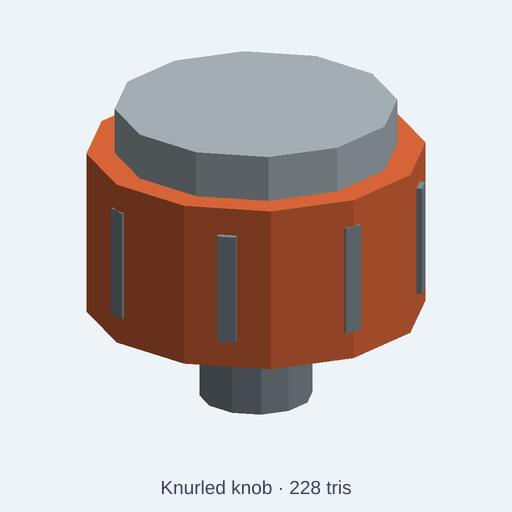
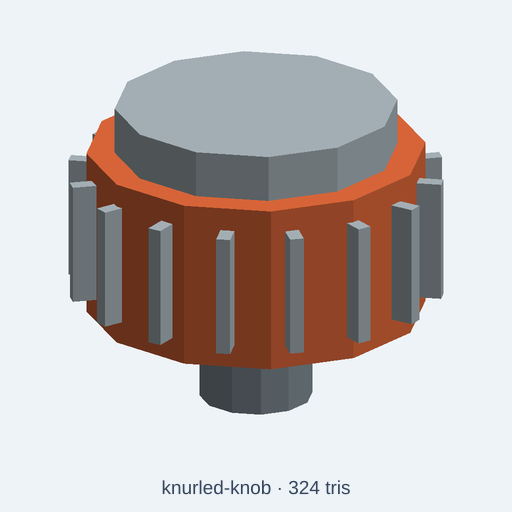
fix(catalog): add real grip flutes, tapered reducer and T-slot mounting holes

diff --git a/catalog/kits/standard-components/pipe-reducer.kcad.ts b/catalog/kits/standard-components/pipe-reducer.kcad.ts
@@ -1,15 +1,15 @@
-// Distinctive geometry: Stepped hollow reducer joining a larger pipe end to a smaller pipe end
+// Distinctive geometry: Tapered hollow pipe fitting connecting larger and smaller nominal bores
 meta({
   name: 'pipe-reducer',
   license: 'CC0-1.0',
   title: 'Pipe reducer',
-  description: 'Stepped hollow reducer joining a larger pipe end to a smaller pipe end Knobs: model size, steel, bronze.',
+  description: 'Tapered hollow pipe fitting connecting larger and smaller nominal bores Knobs: model size, steel, bronze.',
   tags: ['pipe reducer', 'reducer fitting', 'pipe adapter', 'plumbing'],
   kit: 'standard-components',
   category: 'attachment',
   origin: 'base',
   compat: ['mechanical', 'industrial', 'workshop', 'assembly'],
-  triangleBudget: 340,
+  triangleBudget: 520,
 });
 
 const size = param('size', 'standard', { choices: ['compact', 'standard', 'large'], label: 'Model size' });
@@ -24,6 +24,10 @@ presets({
 const s = size.value === 'compact' ? 0.75 : size.value === 'large' ? 1.25 : 1;
 const a = assembly('pipe-reducer');
 a.part('large-end',cylinder(10*s,22*s,14).subtract(cylinder(12*s,16*s,12).translate(0,0,-s)).color(steel));
-a.part('transition',cylinder(24*s,16*s,12).subtract(cylinder(26*s,11*s,12).translate(0,0,-s)).translate(0,0,10*s).color(bronze));
+// Revolve a genuine annular reducer profile, with a smooth continuous outer
+// taper and opening. A stack of different diameter cylinders is not a reducer.
+const transition = path().moveTo(16*s,10*s).lineTo(22*s,10*s)
+  .lineTo(13*s,34*s).lineTo(10*s,34*s).close().revolve();
+a.part('continuous-taper',transition.color(bronze));
 a.part('small-end',cylinder(12*s,13*s,12).subtract(cylinder(14*s,10*s,12).translate(0,0,-s)).translate(0,0,34*s).color(steel));
 return a.model();

diff --git a/catalog/kits/standard-components/knurled-knob.kcad.ts b/catalog/kits/standard-components/knurled-knob.kcad.ts
@@ -3,13 +3,13 @@ meta({
   name: 'knurled-knob',
   license: 'CC0-1.0',
   title: 'Knurled knob',
-  description: 'Compact control knob with a broad grip body, raised crown and center stem Knobs: model size, steel, aluminum, engineering polymer.',
+  description: 'Compact control knob with a broad grip body, raised crown, center stem and visible radial grip flutes. Knobs: model size, steel, aluminum, engineering polymer.',
   tags: ['knob', 'control knob', 'machine control', 'handwheel'],
   kit: 'standard-components',
   category: 'attachment',
   origin: 'base',
   compat: ['mechanical', 'industrial', 'workshop', 'assembly'],
-  triangleBudget: 300,
+  triangleBudget: 480,
 });
 
 const size = param('size', 'standard', { choices: ['compact', 'standard', 'large'], label: 'Model size' });
@@ -27,5 +27,8 @@ const a = assembly('knurled-knob');
 a.part('stem',cylinder(10*s,6*s,10).translate(0,0,0).color(steel));
 a.part('grip',cylinder(18*s,18*s,12).translate(0,0,10*s).color(polymer));
 a.part('crown',cylinder(5*s,15*s,12).translate(0,0,28*s).color(aluminum));
-for (const angle of [0,45,90,135,180,225,270,315]) a.part(`grip-rib-${angle}`,box(2*s,4*s,12*s,true).translate(0,16*s,19*s).rotateZ(angle).color(steel));
+for (let i=0;i<16;i++) {
+  const angle=i*22.5;
+  a.part(`raised-grip-flute-${i}`,box(1.5*s,3*s,13*s,true).translate(0,18.5*s,19*s).rotateZ(angle).color(aluminum));
+}
 return a.model();

diff --git a/catalog/kits/standard-components/t-slot-angle-bracket.kcad.ts b/catalog/kits/standard-components/t-slot-angle-bracket.kcad.ts
@@ -9,7 +9,7 @@ meta({
   category: 'attachment',
   origin: 'base',
   compat: ['mechanical', 'industrial', 'workshop', 'assembly'],
-  triangleBudget: 380,
+  triangleBudget: 600,
 });
 
 const size = param('size', 'standard', { choices: ['compact', 'standard', 'large'], label: 'Model size' });
@@ -24,8 +24,14 @@ presets({
 const s = size.value === 'compact' ? 0.75 : size.value === 'large' ? 1.25 : 1;
 const block = (x: number, y: number, z: number, w: number, d: number, h: number) => box(w, d, h).translate(x, y, z);
 const a = assembly('t-slot-angle-bracket');
-a.part('base',block(-24*s,-20*s,0,48*s,40*s,5*s).color(aluminum));
-a.part('upright',block(-24*s,15*s,5*s,48*s,5*s,34*s).color(aluminum));
+let base=block(-24*s,-20*s,0,48*s,40*s,5*s);
+let upright=block(-24*s,15*s,5*s,48*s,5*s,34*s);
+for (const x of [-13,13]) {
+  base=base.subtract(cylinder(7*s,3*s,12).translate(x*s,-6*s,-s));
+  upright=upright.subtract(cylinder(7*s,3*s,12).rotateX(90).translate(x*s,21*s,24*s));
+}
+a.part('horizontal-mount',base.color(aluminum));
+a.part('vertical-mount',upright.color(aluminum));
 a.part('web-a',extrudePolygon([[-20*s,0],[0,0],[0,24*s]],4*s).rotateX(90).translate(-18*s,15*s,5*s).color(steel));
 a.part('web-b',extrudePolygon([[0,0],[20*s,0],[0,24*s]],4*s).rotateX(90).translate(14*s,15*s,5*s).color(steel));
 return a.model();

diff --git a/docs/quality/manufacturing-assets-2026-11-09.md b/docs/quality/manufacturing-assets-2026-11-09.md
@@ -5,7 +5,7 @@
 - Live source: `https://kernelcad.com/assets.json` collected on 2026-11-09. Exactly **2,418** entries, including **66** manufacturing-category assets: **50** CC0 low-poly standard-component scene props and **16** MIT parametric manufacturing examples. These are not interchangeable product classes.
 - **All 66** linked PNG previews and source files downloaded and visually reviewed from the live catalogue. All **50/50** standard-component sources passed the native catalog LOAD, parameter/knob and GLB mesh checks on work-1 (original baseline). All **16/16** manufacturing examples evaluated successfully in the production KernelCAD runtime without build diagnostics at default parameter values.
 - Source build success is **not** evidence of realistic geometry, manufacturer conformity, accuracy, clearance, fit, load rating, or mechanical function. A pass below means visually suitable for its labeled use *only*, not physically verified.
-- Three MIT manufacturing parts were repaired in [server PR #623](https://github.com/w1ne/kernelCAD-server/pull/623), merged 2026-11-09. Five CC0 component props have targeted rebuilds in the catalog quality branch; their release requires the normal PR/CI/deployment path.
+- Three MIT manufacturing parts were repaired in [server PR #623](https://github.com/w1ne/kernelCAD-server/pull/623), merged 2026-11-09. Eight CC0 component props have targeted rebuilds in the catalog quality branch; their release requires the normal PR/CI/deployment path.
 - Outstanding representational defects must not be silently cleared by a color/preset checker. Continue remediation in the [manufacturing asset issue](https://github.com/w1ne/kernelCAD-server/issues/622).
 
 ## Complete per-asset ledger
@@ -33,7 +33,7 @@
 | 19 | [standard-components/handwheel](https://kernelcad.com/assets/standard-components-handwheel.png) | CC0 low-poly prop | SCENE PASS | Acceptable silhouette at the intended detail level; dimensions/physical function not verified. |
 | 20 | [standard-components/hose-barb-adapter](https://kernelcad.com/assets/standard-components-hose-barb-adapter.png) | CC0 low-poly prop | SCENE PASS | Acceptable silhouette at the intended detail level; dimensions/physical function not verified. |
 | 21 | [standard-components/jaw-coupling](https://kernelcad.com/assets/standard-components-jaw-coupling.png) | CC0 low-poly prop | IMPROVED / proposed | New recognisable geometry plus renderer-verified PNG; requires PR, CI, production check. |
-| 22 | [standard-components/knurled-knob](https://kernelcad.com/assets/standard-components-knurled-knob.png) | CC0 low-poly prop | P1 / open | No visible knurling; model looks like a plain cylindrical knob. |
+| 22 | [standard-components/knurled-knob](https://kernelcad.com/assets/standard-components-knurled-knob.png) | CC0 low-poly prop | IMPROVED / proposed | New recognisable geometry plus renderer-verified PNG; requires PR, CI, production check. |
 | 23 | [standard-components/leveling-foot](https://kernelcad.com/assets/standard-components-leveling-foot.png) | CC0 low-poly prop | SCENE PASS | Acceptable silhouette at the intended detail level; dimensions/physical function not verified. |
 | 24 | [standard-components/linear-guide-carriage](https://kernelcad.com/assets/standard-components-linear-guide-carriage.png) | CC0 low-poly prop | P2 / open | Simplified carriage; no ball circuit or wiper functionality validation. |
 | 25 | [standard-components/linear-guide-rail](https://kernelcad.com/assets/standard-components-linear-guide-rail.png) | CC0 low-poly prop | SCENE PASS | Acceptable silhouette at the intended detail level; dimensions/physical function not verified. |
@@ -44,7 +44,7 @@
 | 30 | [standard-components/pipe-elbow-45](https://kernelcad.com/assets/standard-components-pipe-elbow-45.png) | CC0 low-poly prop | P2 / open | Junction continuity and pressure passage not verified; cosmetic elbow. |
 | 31 | [standard-components/pipe-elbow-90](https://kernelcad.com/assets/standard-components-pipe-elbow-90.png) | CC0 low-poly prop | P2 / open | Junction continuity and pressure passage not verified; cosmetic elbow. |
 | 32 | [standard-components/pipe-flange](https://kernelcad.com/assets/standard-components-pipe-flange.png) | CC0 low-poly prop | SCENE PASS | Acceptable silhouette at the intended detail level; dimensions/physical function not verified. |
-| 33 | [standard-components/pipe-reducer](https://kernelcad.com/assets/standard-components-pipe-reducer.png) | CC0 low-poly prop | P1 / open | Stepped coaxial cylinders, not a continuously tapered reducing fitting. |
+| 33 | [standard-components/pipe-reducer](https://kernelcad.com/assets/standard-components-pipe-reducer.png) | CC0 low-poly prop | IMPROVED / proposed | New recognisable geometry plus renderer-verified PNG; requires PR, CI, production check. |
 | 34 | [standard-components/pipe-saddle-clamp](https://kernelcad.com/assets/standard-components-pipe-saddle-clamp.png) | CC0 low-poly prop | SCENE PASS | Acceptable silhouette at the intended detail level; dimensions/physical function not verified. |
 | 35 | [standard-components/pipe-tee](https://kernelcad.com/assets/standard-components-pipe-tee.png) | CC0 low-poly prop | IMPROVED / proposed | New recognisable geometry plus renderer-verified PNG; requires PR, CI, production check. |
 | 36 | [standard-components/pipe-union](https://kernelcad.com/assets/standard-components-pipe-union.png) | CC0 low-poly prop | P2 / open | No functional separation, retaining nuts or threaded sealing interface established. |
@@ -55,7 +55,7 @@
 | 41 | [standard-components/shim-pack](https://kernelcad.com/assets/standard-components-shim-pack.png) | CC0 low-poly prop | SCENE PASS | Acceptable silhouette at the intended detail level; dimensions/physical function not verified. |
 | 42 | [standard-components/split-shaft-collar](https://kernelcad.com/assets/standard-components-split-shaft-collar.png) | CC0 low-poly prop | P2 / open | Split visible but clamping screw not modeled. |
 | 43 | [standard-components/square-mounting-flange](https://kernelcad.com/assets/standard-components-square-mounting-flange.png) | CC0 low-poly prop | SCENE PASS | Acceptable silhouette at the intended detail level; dimensions/physical function not verified. |
-| 44 | [standard-components/t-slot-angle-bracket](https://kernelcad.com/assets/standard-components-t-slot-angle-bracket.png) | CC0 low-poly prop | P1 / open | T-slot connector has no fastener holes or mating interface. |
+| 44 | [standard-components/t-slot-angle-bracket](https://kernelcad.com/assets/standard-components-t-slot-angle-bracket.png) | CC0 low-poly prop | IMPROVED / proposed | New recognisable geometry plus renderer-verified PNG; requires PR, CI, production check. |
 | 45 | [standard-components/t-slot-end-cap](https://kernelcad.com/assets/standard-components-t-slot-end-cap.png) | CC0 low-poly prop | SCENE PASS | Acceptable silhouette at the intended detail level; dimensions/physical function not verified. |
 | 46 | [standard-components/timing-belt-pulley](https://kernelcad.com/assets/standard-components-timing-belt-pulley.png) | CC0 low-poly prop | SCENE PASS | Acceptable silhouette at the intended detail level; dimensions/physical function not verified. |
 | 47 | [standard-components/tube-clamp](https://kernelcad.com/assets/standard-components-tube-clamp.png) | CC0 low-poly prop | SCENE PASS | Acceptable silhouette at the intended detail level; dimensions/physical function not verified. |
@@ -81,7 +81,7 @@
 
 ## Follow-up acceptance gates
 
-1. Fix the remaining P1 false-affordance models: helical beam coupling, knurled knob, smooth pipe reducer, T-slot mounting bracket, bearing/shaft assembly, hex nut and heat-set insert. Re-render each from exact source and retain proof.
+1. Fix the remaining P1 false-affordance models: helical beam coupling, bearing/shaft assembly, hex nut and heat-set insert. Re-render each from exact source and retain proof.
 2. Fix P2 interface omissions in the low-poly props if they are promoted as engineering examples; otherwise explicitly mark them as scene props and exclude them from manufacturing-performance claims.
 3. For every changed asset: compare the original and proposed thumbnail, run the native evaluator and index/preview integrity tests, check default plus size variants where applicable, and record source/preview hash and deployed status.
 4. Repeat review for new and high-visibility catalogue additions. An asset count increase is not a substitute for geometry quality.
